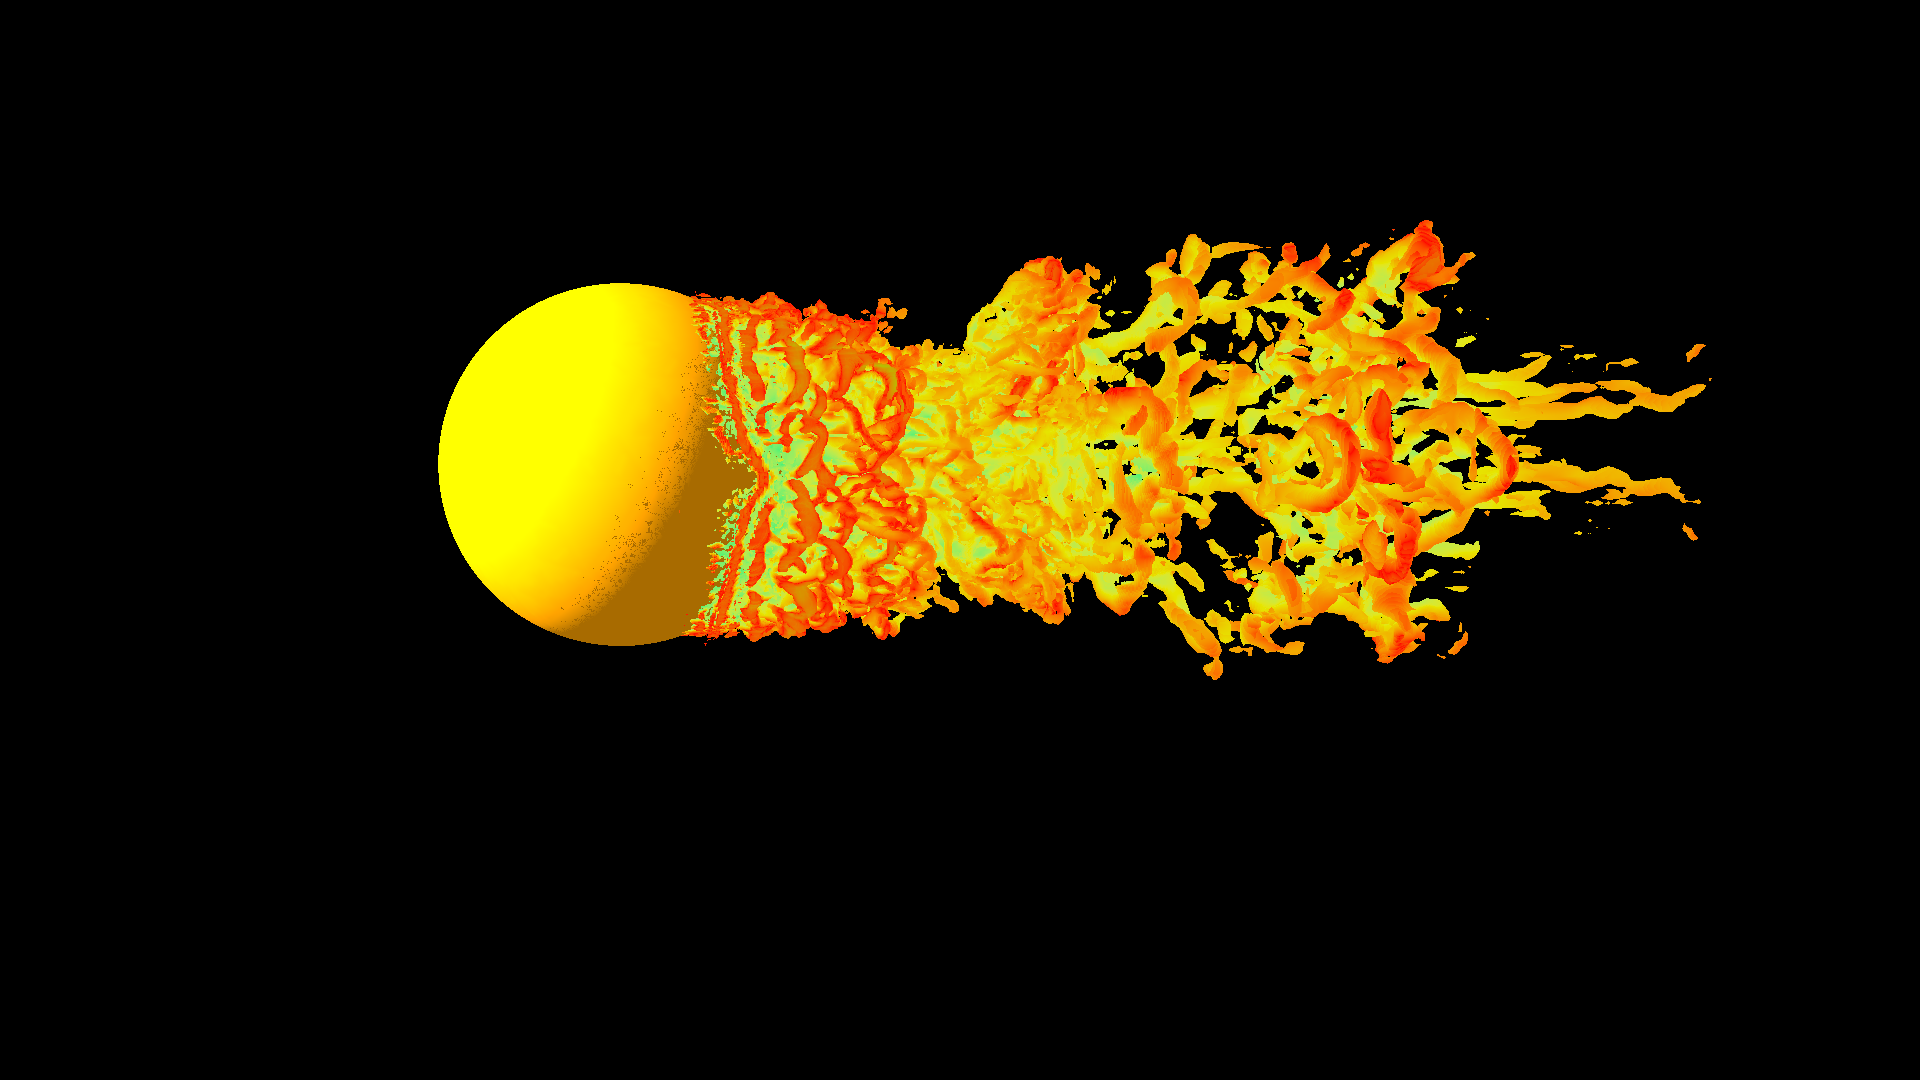
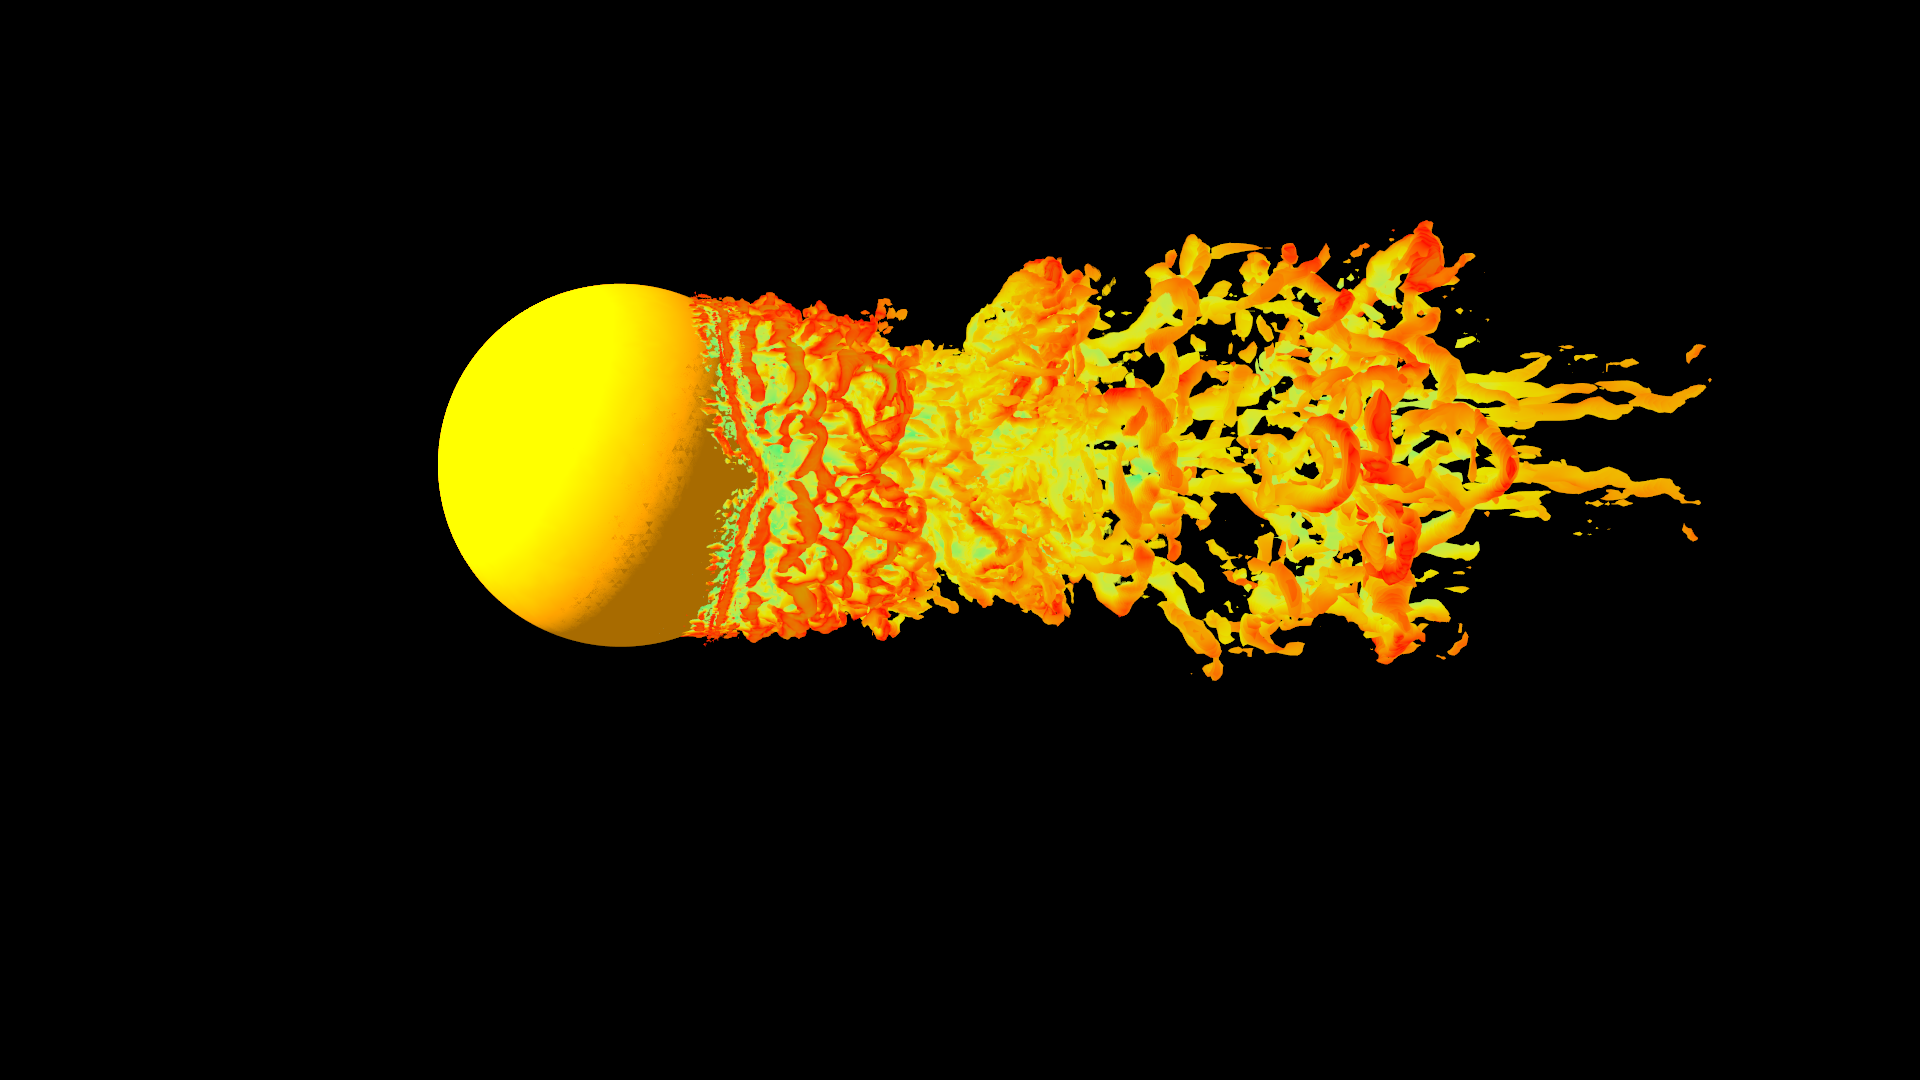
Super resolution.

diff --git a/src/integrator.cpp b/src/integrator.cpp
@@ -8,48 +8,65 @@ Integrator::Integrator(std::shared_ptr<Camera> cam, std::shared_ptr<Scene> scene
 }
 
 void Integrator::render() const {
+    const int superSample = 4;
+    std::vector<std::pair<float, float>> offsets;
+    for (int i = 0; i < superSample; ++i) {
+        for (int j = 0; j < superSample; ++j) {
+            offsets.emplace_back((static_cast<float>(i) + 0.5f) / static_cast<float>(superSample), (static_cast<float>(j) + 0.5f) / static_cast<float>(superSample));
+        }
+    }
+    constexpr auto angle = 26.6f / 180.0f * PI;
+    std::pair<std::pair<float, float>, std::pair<float, float>> rotate{
+            {cosf(angle), -sinf(angle)},
+            {sinf(angle), cosf(angle)}};
+    for (auto &offset: offsets) {
+        auto [a, b] = offset;
+        offset = {rotate.first.first * a + rotate.first.second * b,
+                  rotate.second.first * a + rotate.second.second * b};
+    }
+
     Vec2i resolution = camera->getImage()->getResolution();
     for (auto &grid: scene->grids) {
         std::cout << grid.aabb.lower_bnd << " " << grid.aabb.upper_bnd << std::endl;
     }
     int cnt = 0;
     scene->grids[0].aabb.adjustLow(Vec3f(5.1, 0, 0));
-    std::cout << 1 << std::endl;
-#pragma omp parallel for schedule(guided, 2), default(none), shared(cnt, resolution)
+#pragma omp parallel for schedule(guided, 2), default(none), shared(cnt), firstprivate(offsets, resolution)
     for (int dx = 0; dx < resolution.x(); dx++) {
 #pragma omp atomic
         ++cnt;
         printf("\r%.02f%%", cnt * 100.0 / resolution.x());
         for (int dy = 0; dy < resolution.y(); dy++) {
             Vec3f L(0, 0, 0);
-            Ray ray = camera->generateRay((float) dx, (float) dy);
-            float t0, t1, t_max = 1e10;
-            Vec3f phongColor(0);
-            Interaction interaction;
-            if (scene->sphere.aabb.intersect(ray, t0, t1)) {
-                if (scene->sphere.intersect(ray, interaction)) {
-                    t_max = interaction.dist;
-                    phongColor = radiance(ray, interaction, Vec3f{4, 1.5, 0});
+            for (const auto &offset: offsets) {
+                Ray ray = camera->generateRay((float) dx + offset.first, (float) dy + offset.second);
+                float t0, t1, t_max = 1e10;
+                Vec3f phongColor(0);
+                Interaction interaction;
+                if (scene->sphere.aabb.intersect(ray, t0, t1)) {
+                    if (scene->sphere.intersect(ray, interaction)) {
+                        t_max = interaction.dist;
+                        phongColor = radiance(ray, interaction, Vec3f{4, 1.5, 0});
+                    }
                 }
-            }
-            if (scene->grids[0].aabb.intersect(ray, t0, t1)) {
-                auto colorOpacity = radiance(ray, t0, std::min(t1, t_max));
-                L += colorOpacity.first;
-                if (colorOpacity.second < 1 - 1e-3) {
+                if (scene->grids[0].aabb.intersect(ray, t0, t1)) {
+                    auto colorOpacity = radiance(ray, t0, std::min(t1, t_max));
+                    L += colorOpacity.first;
+                    if (colorOpacity.second < 1 - 1e-3) {
+                        L += phongColor;
+                    }
+                } else {
                     L += phongColor;
                 }
-            } else {
-                L += phongColor;
             }
-
-            camera->getImage()->setPixel(dx, dy, L);
+            camera->getImage()->setPixel(dx, dy, L / offsets.size());
         }
     }
 
 }
 
 std::pair<Vec3f, float> Integrator::radiance(Ray &ray, float t0, float t1) const {
-    float step_size = scene->grids[0].dx / 2;
+    float step_size = scene->grids[0].dx / 32;
     Vec3f src_color;
     float src_opacity;
     auto src_t = (float) fmax(t0 - step_size, ray.t0());
@@ -65,7 +82,7 @@ std::pair<Vec3f, float> Integrator::radiance(Ray &ray, float t0, float t1) const
         std::tie(src_color, src_opacity, layer) = scene->getEmissionOpacity(src_pos);
 
         if (layer != -1) {
-            step_size = scene->grids[layer].dx / 2;
+            step_size = scene->grids[layer].dx / 32;
 //            accessor = scene->QGrids[layer]->getAccessor();
         }
         src_opacity = (float) (1.0 - std::pow(1 - src_opacity, step_size));

diff --git a/src/main.cpp b/src/main.cpp
@@ -14,7 +14,7 @@ int main() {
 
     auto sphere = Reader::loadObj("dataset/sphere.obj", Vec3f(5, 2, 3), 4.2 / 3.0);
 
-    std::shared_ptr<ImageRGB> image = std::make_shared<ImageRGB>(1920, 1080);
+    std::shared_ptr<ImageRGB> image = std::make_shared<ImageRGB>(3840, 2160);
     Camera cam(Vec3f(3, 3.2, 15), 19.5, 1, Vec3f(10,0,-10), Vec3f(0, 1, 0), image);
     Scene scene;
     scene.setGrids(ScalarGrids);
